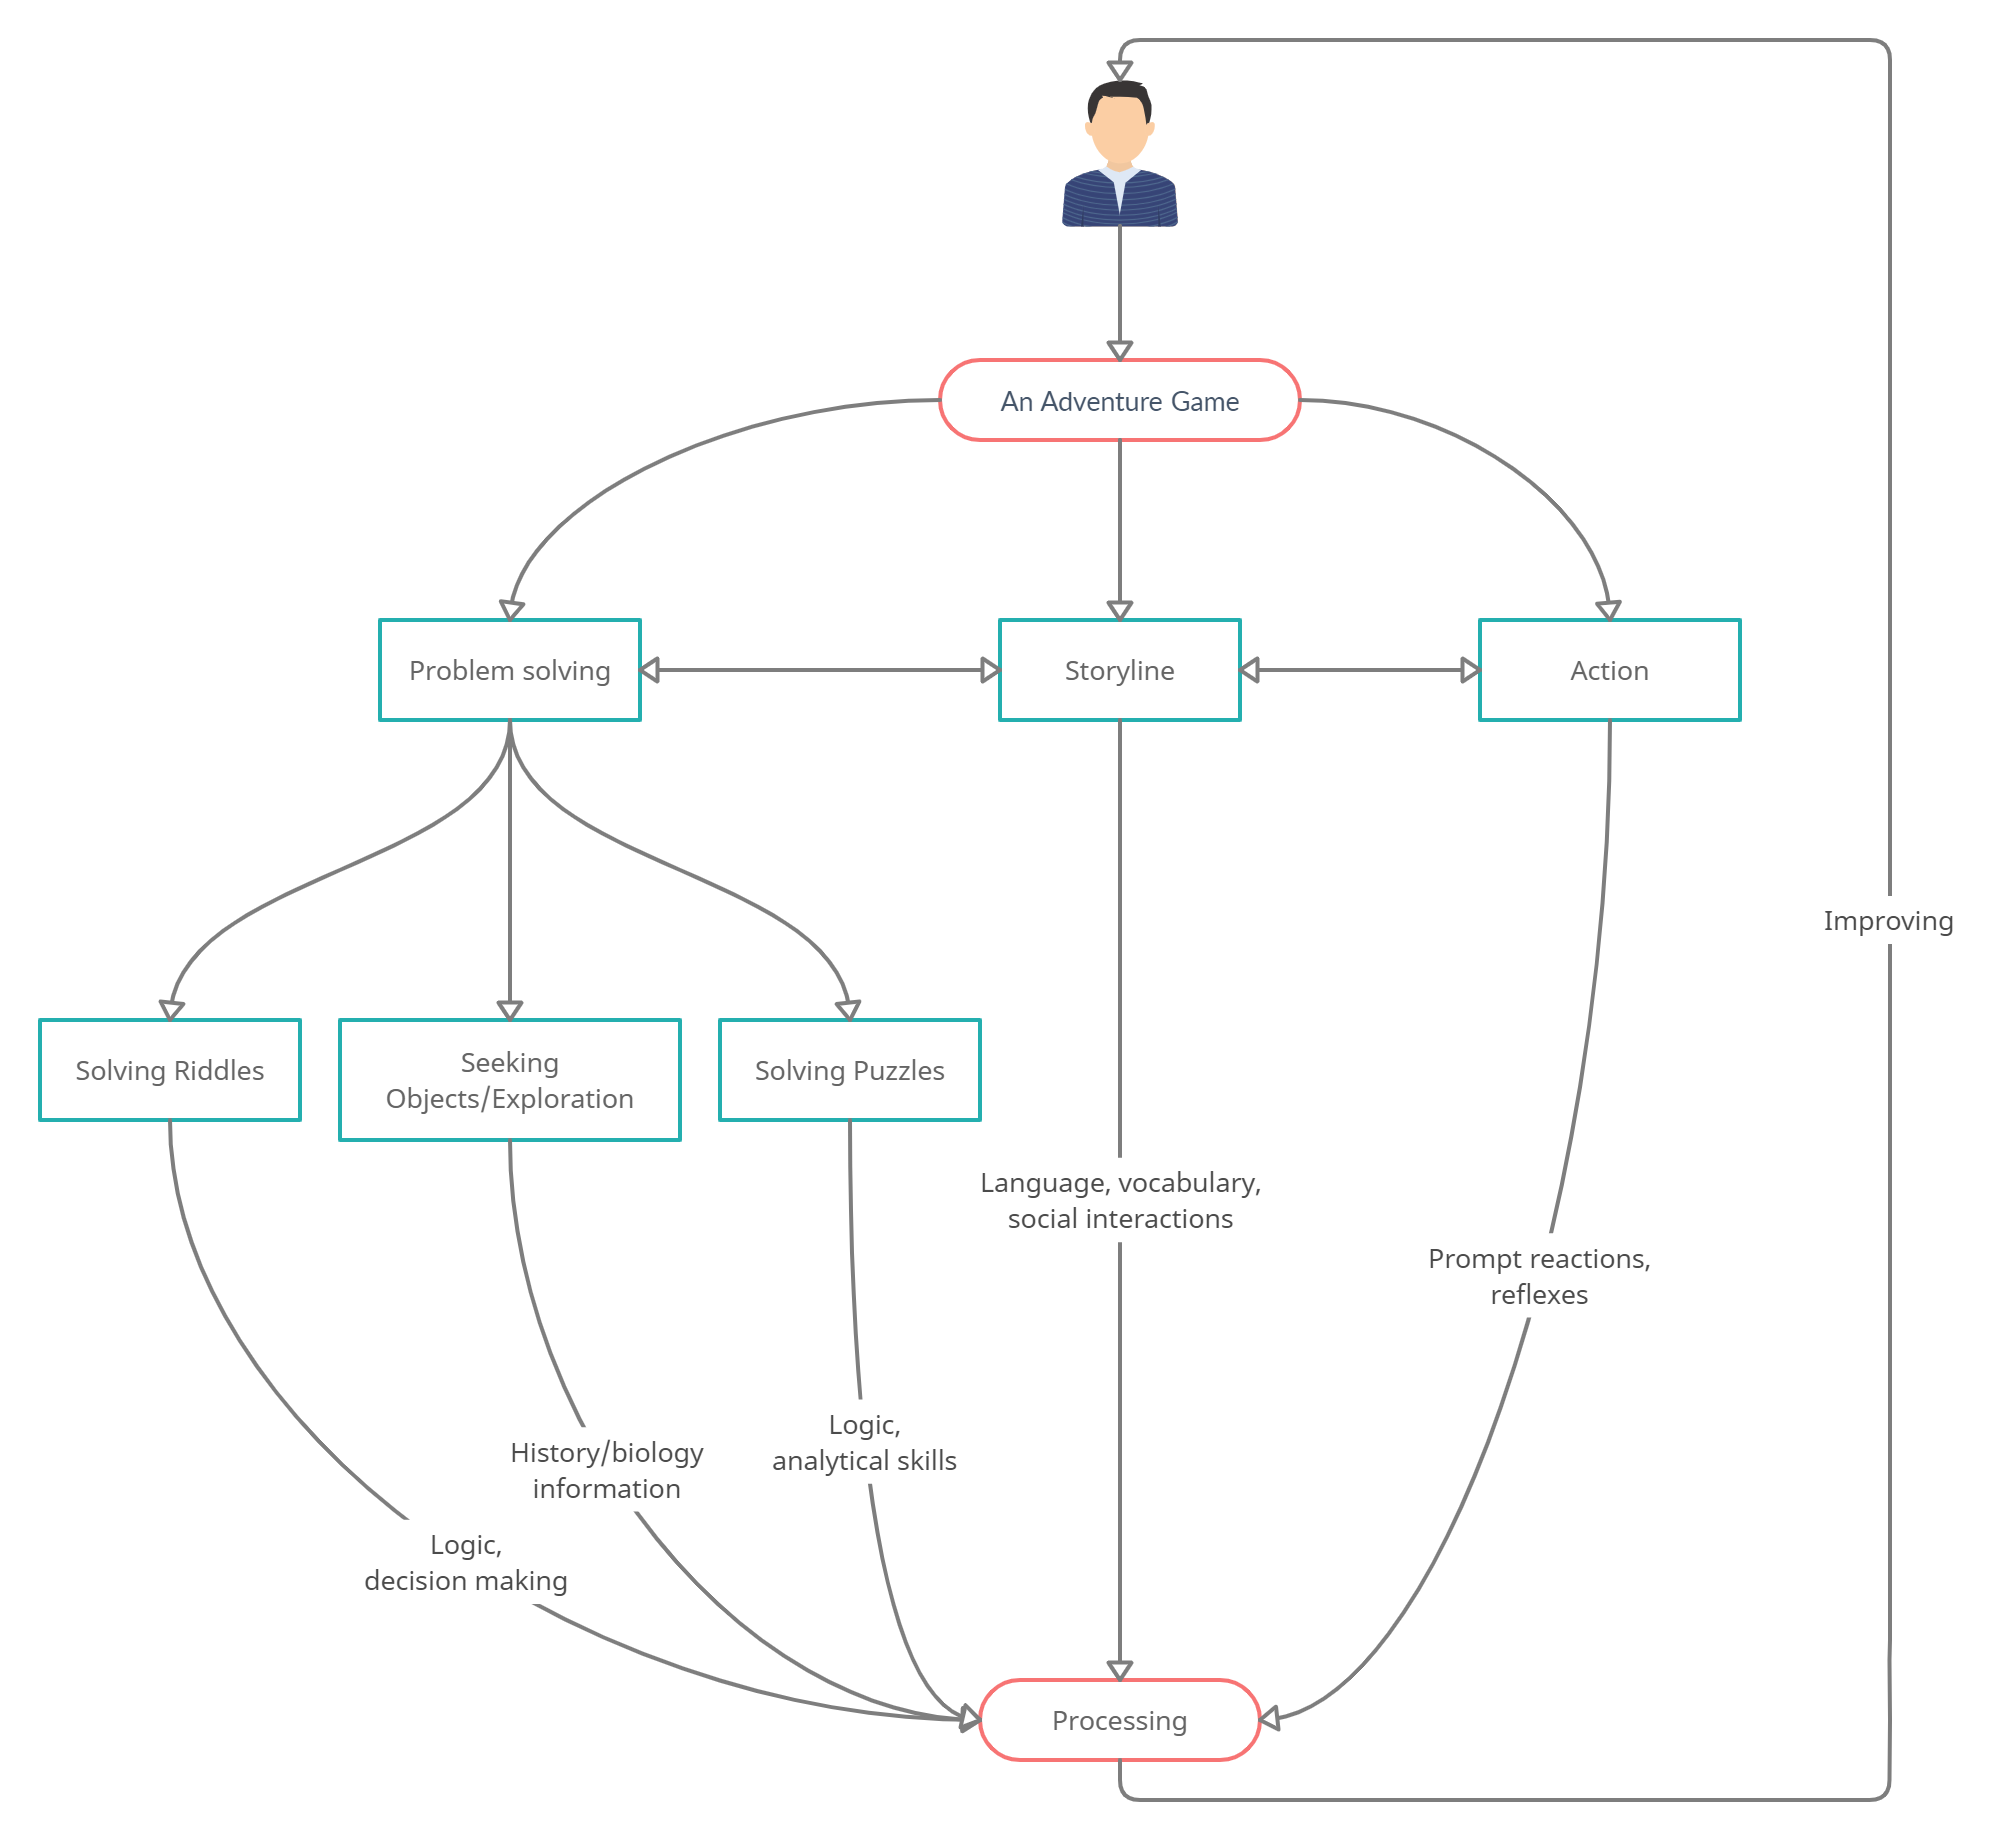
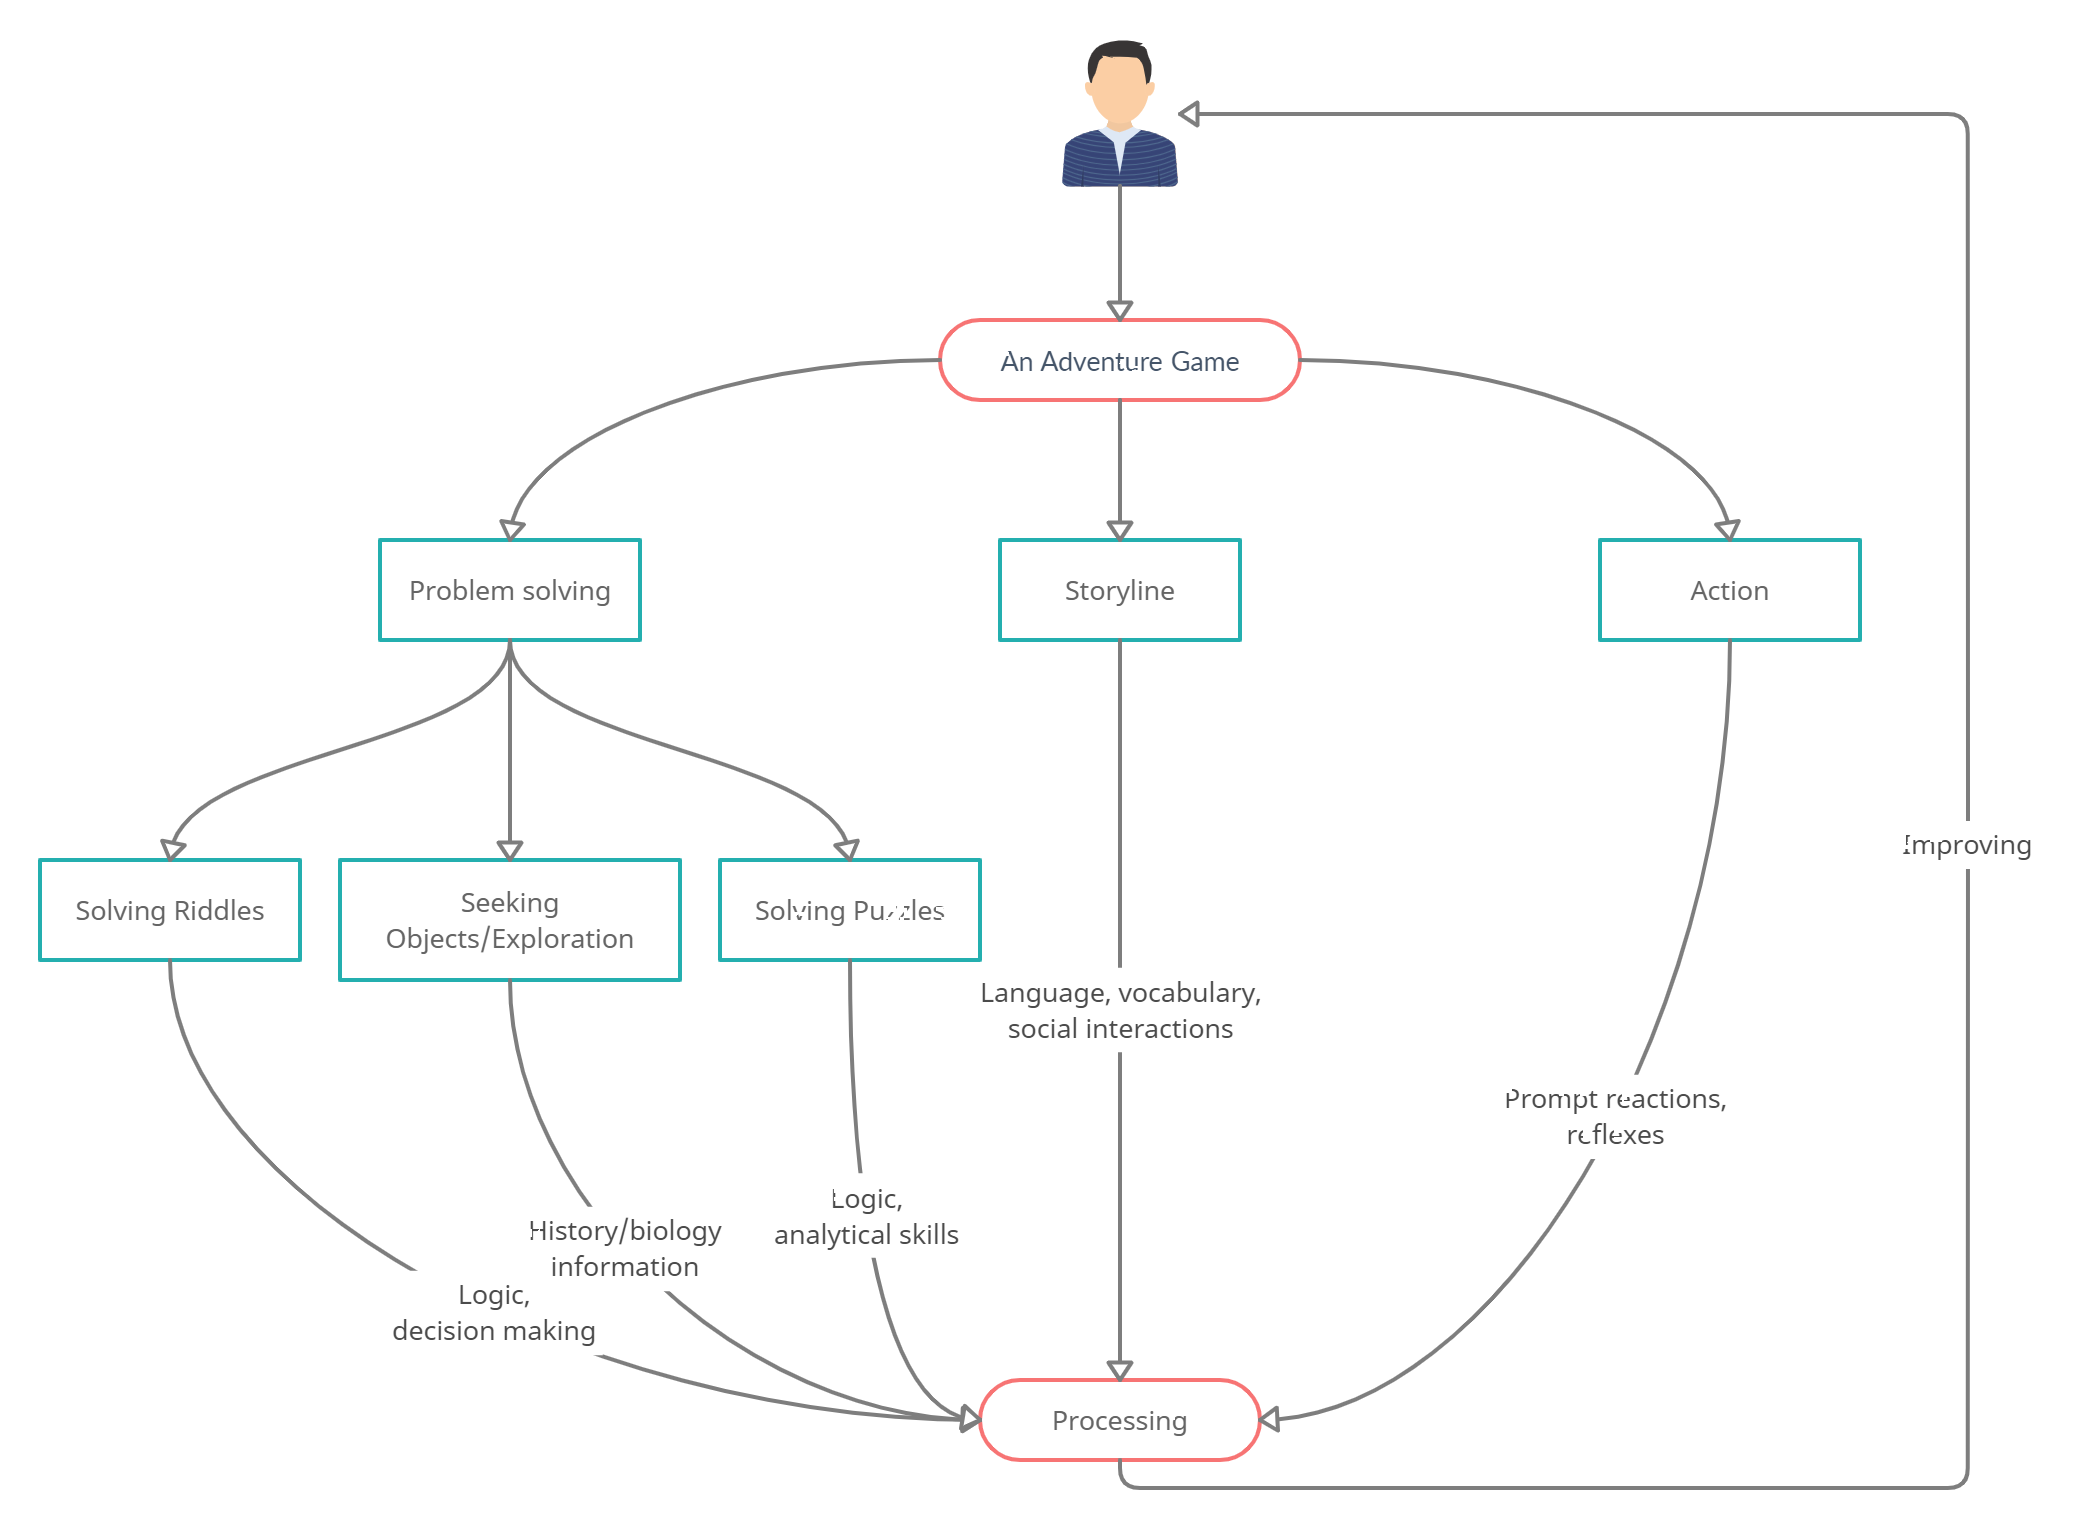
Ability improvement in other video games - finished

diff --git a/clanok.tex b/clanok.tex
@@ -56,9 +56,13 @@ As far as society remembers, games played a vital role in socializing. The first
 Video games have a great tendency to capture people's attention and hold it for long periods of time. On the other hand, learning by itself has the exact opposite effect. These two elements are combined in video game-based learning, which makes it a remarkable learning strategy. But it's important to remember that video games should not be the primary method of education and should only be utilized as a learning aid. There are video games with solely educational purposes, despite the fact that creating such is challenging. Counting, writing, spelling, and pronouncing activities for young children and toddlers are a few examples. Then there are games still being considered educational but aren't designed to teach their players something new, but they help players enhance their already existing abilities. For instance, sudoku helps improve logic, crosswords aid with vocabulary expansion, and Millionaire helps with general knowledge improvement, along with a multitude of other games.~\cite{learning}
 
 \subsection{Ability improvement in other video games}
-Even games that are not intended to teach anything can be of benefit. A study shows that almost every video game genre can be beneficial for something. Adventure games are the most common illustration. A compelling plot, action, problem-solving, riddles, puzzles, and other kinds of seeking for things are nearly always included.
+Even games that are not intended to teach anything can be of benefit. A study shows that almost every video game genre can be beneficial for something. Adventure games are the most common illustration. A compelling plot, action, problem-solving, riddles, puzzles, and many kinds of seeking for things are nearly always included.~\cite{learning} All these things by themselves can improve specific abilities. For instance, the action in adventure games enhances quick reactions (see Figure 1). Strategy games, on the other side, improve one's decision-making skills and thinking abilities.
 
-\includegraphics[scale=0.18]{adventure}
+\begin{figure}[h]
+\centering
+\includegraphics[scale=0.16]{adventure}
+\caption{A diagram of how adventure games help improve certain abilities}
+\end{figure}
 
 \subsection{Foreign language learning}
 \ldots
